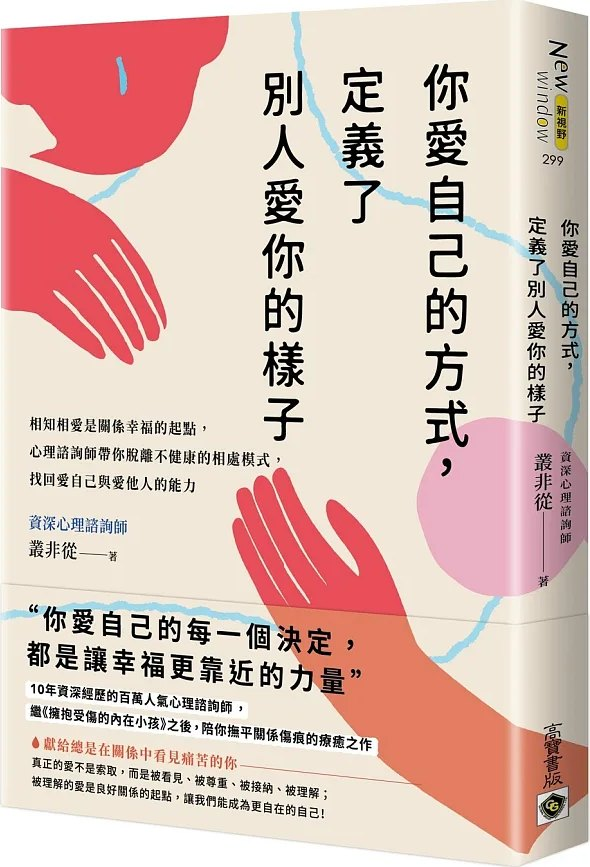
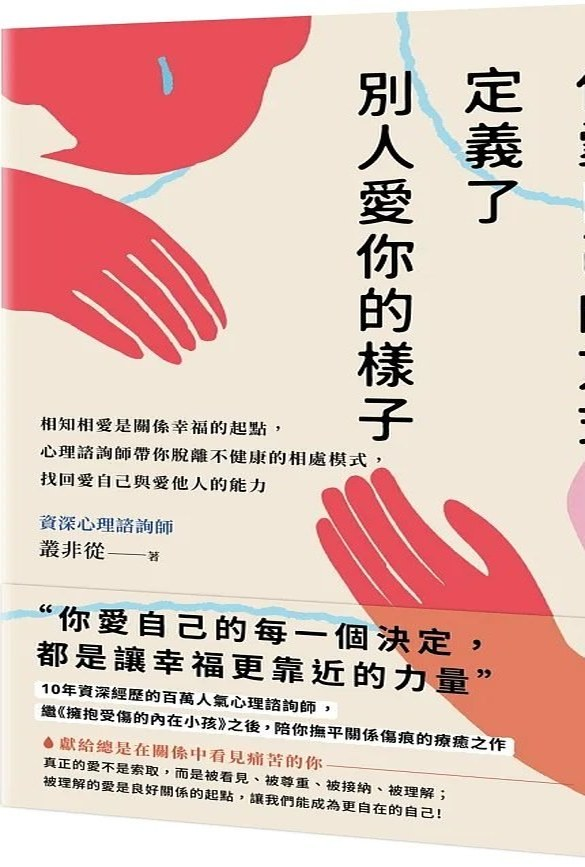
改版：入口頁＋直播／新聞報紙攤／說書書櫃／歌曲點唱機四館，書封裁成正面滿版
Claude-Session: https://claude.ai/code/session_017Gi2asPqHYjFS4PY58urQN

diff --git a/site/index.html b/site/index.html
@@ -239,6 +239,142 @@ footer b{font:italic 600 16px var(--orn);color:var(--gilt)}
 @media(max-width:800px){.hero{grid-template-columns:minmax(0,1fr)}.feat{order:2}}
 @media(max-width:600px){.grid{grid-template-columns:repeat(2,minmax(0,1fr));gap:14px 10px}.card .t{font-size:14px}.hitrow{grid-template-columns:110px minmax(0,1fr)}.shorts{grid-template-columns:repeat(2,minmax(0,1fr))}.set .head{grid-template-columns:96px minmax(0,1fr)}}
 @media(prefers-reduced-motion:reduce){.bar i,.card .th,.short .th{transition:none}}
+/* ===== 全站導覽 ===== */
+.gnav{display:flex;align-items:center;gap:6px 14px;flex-wrap:wrap;width:100%}
+.brand{display:flex;align-items:center;gap:8px;color:var(--pearl,#EEF0F4);text-decoration:none;font-family:"Noto Serif TC",serif;font-weight:900;font-size:17px;white-space:nowrap}
+.brand img{width:30px;height:30px;object-fit:contain;transition:transform .3s}
+.brand:hover img{transform:rotate(-12deg) scale(1.1)}
+.gsecs{display:flex;gap:4px;flex-wrap:wrap}
+.gsec{padding:7px 14px;border-radius:999px;color:#B9BDC8;text-decoration:none;font-weight:700;font-size:15px;border:1px solid transparent}
+.gsec:hover{color:#EEF0F4;border-color:rgba(255,255,255,.15)}
+.gsec[aria-current="true"]{background:#51A8DD;color:#1A1B22}
+body:not([data-sec="live"]) header.band,body:not([data-sec="live"]) .tabs{display:none}
+body[data-sec="home"] .controls{display:none}
+body[data-sec="home"] main.band{padding:0}
+body[data-sec="home"] main.band>.wrap{max-width:none;padding:0}
+body[data-sec="home"] footer.band{margin-top:0}
+.back{display:inline-block;margin:6px 0 14px;color:#51A8DD;text-decoration:none;font-weight:700}
+.back:hover{text-decoration:underline}
+
+/* ===== 入口 ===== */
+.home{position:relative;min-height:100vh;overflow:hidden;display:flex;align-items:center;isolation:isolate}
+.hbg{position:absolute;inset:0;z-index:-2}
+.hbg img{width:100%;height:100%;object-fit:cover;object-position:62% 35%}
+.home::before{content:"";position:absolute;inset:0;z-index:-1;background:linear-gradient(90deg,rgba(18,20,30,.94) 0,rgba(18,20,30,.78) 42%,rgba(18,20,30,.25) 75%,rgba(18,20,30,.1)),linear-gradient(0deg,rgba(18,20,30,.9),transparent 40%)}
+.hin{width:min(1180px,100%);margin:0 auto;padding:72px 28px 60px}
+.home h1{font-family:"Noto Serif TC",serif;font-weight:900;font-size:clamp(38px,6vw,72px);line-height:1.12;margin:6px 0 10px;color:#EEF0F4;text-shadow:0 4px 30px rgba(0,0,0,.5)}
+.hlede{font-size:clamp(17px,2vw,21px);color:#F6E3B4;margin:0 0 26px;font-weight:500}
+.hsearch{display:flex;max-width:560px;background:rgba(255,255,255,.96);border-radius:999px;padding:6px;box-shadow:0 10px 40px -10px rgba(0,0,0,.6),0 0 0 4px rgba(242,201,120,.35);margin-bottom:42px}
+.hsearch input{flex:1;border:0;background:none;font:inherit;font-size:17px;padding:10px 18px;color:#1A1B22;outline:none;min-width:0}
+.hsearch button{border:0;border-radius:999px;background:#E9B872;color:#3B2A12;font:inherit;font-weight:900;padding:10px 22px;cursor:pointer}
+.hsearch button:hover{background:#F2C77F}
+.doors{display:grid;grid-template-columns:repeat(4,minmax(0,1fr));gap:22px;max-width:1040px}
+.door{position:relative;display:flex;flex-direction:column;align-items:flex-start;gap:2px;padding:96px 20px 20px;border-radius:30px;text-decoration:none;color:#3B2A12;background:#FFF3D6;border:3px solid #B8763A;box-shadow:0 8px 0 #B8763A,0 18px 40px -12px rgba(0,0,0,.6);transition:transform .25s cubic-bezier(.3,1.6,.5,1),box-shadow .25s;overflow:visible}
+.door::after{content:"";position:absolute;left:18px;right:18px;top:12px;height:6px;border-radius:9px;background:var(--c);opacity:.85}
+.door:hover,.door:focus-visible{transform:translateY(-8px) rotate(-1.5deg);box-shadow:0 14px 0 #B8763A,0 26px 50px -12px rgba(0,0,0,.6);outline:none}
+.door:nth-child(even):hover{transform:translateY(-8px) rotate(1.5deg)}
+.dhani{position:absolute;z-index:2;top:-38px;left:50%;width:118px;height:118px;object-fit:contain;transform:translateX(-50%);filter:drop-shadow(0 8px 10px rgba(0,0,0,.35));animation:bob 3.2s ease-in-out infinite;animation-delay:calc(var(--i)*-.8s)}
+.door:hover .dhani{animation-duration:.9s}
+@keyframes bob{0%,100%{transform:translate(-50%,0) rotate(-3deg)}50%{transform:translate(-50%,-10px) rotate(3deg)}}
+.drip{position:absolute;left:0;right:0;top:-3px;height:26px;pointer-events:none;background:radial-gradient(14px 18px at 14% 0,#E9B872 98%,transparent) ,radial-gradient(10px 22px at 38% 0,#E9B872 98%,transparent),radial-gradient(12px 14px at 66% 0,#E9B872 98%,transparent),radial-gradient(9px 20px at 86% 0,#E9B872 98%,transparent);opacity:.9;border-radius:30px 30px 0 0}
+.dt{font-family:"Noto Serif TC",serif;font-weight:900;font-size:30px;line-height:1.2}
+.den{font-family:"Cormorant Garamond",serif;font-style:italic;font-weight:600;font-size:17px;color:#8A5A24}
+.dd{font-size:14px;line-height:1.55;margin-top:8px;color:#5B4426}
+.dn{margin-top:12px;font-size:13px;font-weight:900;background:#3B2A12;color:#FFF3D6;padding:4px 12px;border-radius:999px}
+.float{position:absolute;width:86px;opacity:.9;pointer-events:none;filter:drop-shadow(0 6px 8px rgba(0,0,0,.35));animation:drift 9s ease-in-out infinite}
+.f1{right:5%;top:12%;width:92px}.f2{right:30%;bottom:6%;width:74px;animation-delay:-3s}.f3{left:52%;top:6%;width:140px;animation-delay:-6s}
+@keyframes drift{0%,100%{transform:translateY(0) rotate(-4deg)}50%{transform:translateY(-16px) rotate(4deg)}}
+@media(max-width:900px){.doors{grid-template-columns:repeat(2,minmax(0,1fr));gap:48px 16px}.hin{padding:56px 18px 48px}.f3{display:none}.home::before{background:linear-gradient(0deg,rgba(18,20,30,.95) 0,rgba(18,20,30,.75) 60%,rgba(18,20,30,.45))}}
+@media(max-width:480px){.door{padding:78px 14px 16px;border-radius:24px}.dhani{width:92px;height:92px;top:-30px}.dt{font-size:24px}.dd{display:none}.f1,.f2{display:none}}
+
+/* ===== 報紙攤 ===== */
+.stand{position:relative;margin:4px 0 26px;border-radius:18px;overflow:hidden;background:#232634;border:1px solid rgba(255,255,255,.08)}
+.awning{height:54px;background:repeating-linear-gradient(90deg,#1E2A4F 0 46px,#EEF0F4 46px 92px);position:relative}
+.awning::after{content:"";position:absolute;left:0;right:0;bottom:-14px;height:16px;background:radial-gradient(24px 16px at 23px 0,#1E2A4F 98%,transparent) 0 0/92px 16px repeat-x,radial-gradient(24px 16px at 69px 0,#EEF0F4 98%,transparent) 0 0/92px 16px repeat-x}
+.standhead{display:flex;gap:20px;align-items:center;padding:30px 26px 22px}
+.standhead h2,.libhead h2,.jbside h2{font-family:"Noto Serif TC",serif;font-weight:900;font-size:clamp(26px,3.4vw,38px);margin:2px 0 6px}
+.shani,.lhani{width:96px;height:96px;object-fit:contain;flex:none;animation:drift 6s ease-in-out infinite}
+.papers{position:relative;padding:10px 0 40vh;max-width:920px;margin:0 auto}
+.paper{all:unset;box-sizing:border-box;cursor:pointer;display:flex;flex-direction:column;gap:12px;position:sticky;top:calc(var(--ctrl,72px) + 14px + var(--i)*5px);margin:0 auto 34px;width:100%;min-height:330px;padding:22px 26px 18px;background:#F4EEDF;color:#1F1B16;border-radius:4px;box-shadow:0 1px 0 #d8ceb8,0 24px 50px -18px rgba(0,0,0,.75),0 2px 0 rgba(0,0,0,.08) inset;transform:rotate(var(--r));transition:transform .25s,box-shadow .25s;background-image:linear-gradient(90deg,transparent 49.6%,rgba(0,0,0,.05) 50%,transparent 50.4%),repeating-linear-gradient(0deg,rgba(0,0,0,.015) 0 2px,transparent 2px 4px)}
+.paper:hover,.paper:focus-visible{transform:rotate(0) translateY(-6px);box-shadow:0 30px 60px -18px rgba(0,0,0,.85),0 0 0 3px #E9B872;outline:none}
+.mast{display:flex;flex-direction:column;align-items:center;border-bottom:3px double #1F1B16;padding-bottom:8px}
+.mast b{font-family:"Noto Serif TC",serif;font-weight:900;font-size:clamp(28px,4vw,44px);letter-spacing:.12em;line-height:1.1}
+.mast small{font-family:"Cormorant Garamond",serif;font-style:italic;font-weight:600;font-size:15px;color:#5a5245;margin-top:2px}
+.pbody2{display:grid;grid-template-columns:minmax(0,1.25fr) minmax(0,1fr);gap:20px;align-items:start}
+.pmain{display:flex;flex-direction:column;gap:8px;min-width:0}
+.kick{align-self:flex-start;background:#B3261E;color:#fff;font-weight:900;font-size:13px;padding:2px 10px}
+.headl{font-family:"Noto Serif TC",serif;font-weight:900;font-size:clamp(22px,3vw,32px);line-height:1.3}
+.headl mark{background:#F2D46B;color:inherit}
+.subs{display:flex;flex-direction:column;border-top:1px solid #1F1B16;margin-top:4px}
+.subs i{font-style:normal;font-size:15px;line-height:1.45;padding:6px 0;border-bottom:1px dotted #8f8574;overflow:hidden;text-overflow:ellipsis;white-space:nowrap}
+.subs i::before{content:"■ ";font-size:10px;color:#B3261E}
+.pphoto{display:block;aspect-ratio:16/9;overflow:hidden;border:1px solid #1F1B16;background:#ccc}
+.pphoto .th{width:100%;height:100%;object-fit:cover;filter:grayscale(.85) contrast(1.1) sepia(.25)}
+.paper:hover .pphoto .th{filter:none}
+.pfoot{display:flex;justify-content:space-between;gap:10px;font-size:13px;color:#5a5245;border-top:1px solid #1F1B16;padding-top:8px;margin-top:auto}
+.pcta{font-weight:900;color:#1F1B16}
+@media(max-width:700px){.pbody2{grid-template-columns:1fr}.pphoto{order:-1}.paper{padding:16px 16px 14px;min-height:0}.standhead{padding:24px 16px 18px}.shani,.lhani{width:70px;height:70px}}
+
+/* ===== 書櫃間 ===== */
+.libhead{display:flex;gap:20px;align-items:center;margin:6px 0 26px}
+.cabinets{display:grid;grid-template-columns:repeat(auto-fill,minmax(250px,1fr));gap:58px 28px;padding-top:30px}
+.cab{position:relative;display:flex;flex-direction:column;text-decoration:none;color:#3B2A12;border-radius:20px 20px 12px 12px;background:linear-gradient(180deg,#B57A45,#8E5A2E);padding:14px 14px 0;box-shadow:0 10px 0 #5E3A1C,0 26px 40px -16px rgba(0,0,0,.8);transition:transform .25s cubic-bezier(.3,1.6,.5,1)}
+.cab:hover,.cab:focus-visible{transform:translateY(-8px) rotate(-1deg);outline:none}
+.cabtop{position:absolute;top:-54px;right:18px;width:80px;height:80px}
+.cabtop img{width:100%;height:100%;object-fit:contain;filter:drop-shadow(0 6px 6px rgba(0,0,0,.4));animation:drift 5s ease-in-out infinite}
+.cabbody{display:flex;flex-direction:column;gap:12px;background:#4A2E17;border-radius:10px;padding:12px 10px 8px;box-shadow:inset 0 6px 14px rgba(0,0,0,.6)}
+.cabrow{display:flex;align-items:flex-end;gap:5px;height:104px;border-bottom:7px solid #C99863;padding:0 4px}
+.cabrow.low{height:96px}
+.spine{flex:1;max-width:58px;height:var(--h);border-radius:2px;overflow:hidden;box-shadow:2px 0 4px rgba(0,0,0,.6)}
+.spine .bimg,.spine .gcover{width:100%;height:100%;object-fit:cover;object-position:center;display:block}
+.spine .gband,.spine .gstar{display:none}
+.cablabel{display:flex;flex-wrap:wrap;align-items:baseline;gap:4px 10px;background:#FFF3D6;margin:14px -14px 0;padding:14px 18px;border-radius:0 0 12px 12px;border-top:3px solid #5E3A1C}
+.cablabel b{font-family:"Noto Serif TC",serif;font-weight:900;font-size:21px}
+.cablabel small{font-family:"Cormorant Garamond",serif;font-style:italic;font-size:15px;color:#8A5A24}
+.cablabel em{margin-left:auto;font-style:normal;font-weight:900;font-size:13px;background:#3B2A12;color:#FFF3D6;padding:3px 10px;border-radius:999px}
+.woodshelf{background:linear-gradient(180deg,rgba(181,122,69,.12),rgba(181,122,69,.04));border-radius:18px;padding:22px 18px 10px}
+
+/* 書封：一律置中滿版 */
+.bcov .bimg,.mcov .bimg{position:absolute;inset:0;width:100%;height:100%;object-fit:cover;object-position:center center}
+
+/* ===== 點唱機 ===== */
+.jbwrap{display:grid;grid-template-columns:minmax(280px,380px) minmax(0,1fr);gap:40px;align-items:center;margin:10px 0 40px}
+.jukebox{position:relative;border-radius:190px 190px 26px 26px;padding:120px 26px 30px;background:radial-gradient(120% 80% at 50% 0,#3A2C5A,#1E2A4F 60%,#151a2e);border:6px solid #C8A55A;box-shadow:0 0 0 6px #6B4B1F,0 0 50px rgba(242,167,181,.35),0 30px 60px -20px rgba(0,0,0,.9);display:flex;flex-direction:column;align-items:center;gap:14px;text-align:center}
+.jbarch{position:absolute;inset:14px 14px auto;height:150px;border-radius:170px 170px 0 0;border:5px solid transparent;background:linear-gradient(#0000,#0000) padding-box,conic-gradient(from 180deg,#F2A7B5,#E9B872,#51A8DD,#B9A3F2,#F2A7B5) border-box;animation:glow 4s linear infinite;-webkit-mask:linear-gradient(#000 0 0) padding-box exclude,linear-gradient(#000 0 0);mask:linear-gradient(#000 0 0) padding-box exclude,linear-gradient(#000 0 0)}
+.jbhani{position:absolute;top:-64px;left:50%;width:96px;transform:translateX(-50%);animation:bob 2.6s ease-in-out infinite;-webkit-mask:none;mask:none}
+@keyframes glow{to{filter:hue-rotate(360deg)}}
+.jbscreen{position:relative;width:210px;height:210px;margin-top:-30px}
+.jbdisc{position:absolute;top:10px;left:60px;width:190px;height:190px;border-radius:50%;background:radial-gradient(circle,#C8A55A 0 10%,#111 11% 13%,transparent 14%),repeating-radial-gradient(circle,#0f0f13 0 2px,#22232b 2px 4px);box-shadow:0 10px 24px rgba(0,0,0,.6);animation:spin 4s linear infinite}
+@keyframes spin{to{transform:rotate(360deg)}}
+.jbcover{position:absolute;inset:0;border-radius:6px;overflow:hidden;box-shadow:0 14px 30px rgba(0,0,0,.7)}
+.jbcover .sleeve{position:absolute;inset:0}
+.jbinfo{display:flex;flex-direction:column;gap:2px;color:#EEF0F4;margin-top:6px}
+.jbinfo b{font-family:"Noto Serif TC",serif;font-size:24px;line-height:1.3}
+.jbinfo small{color:#B9BDC8;font-size:15px}
+.jblang{font-size:13px;color:#F2A7B5;font-weight:700}
+.jbbtns{display:flex;gap:10px;flex-wrap:wrap;justify-content:center}
+.jbplay,.jbmore{border:0;border-radius:999px;font:inherit;font-weight:900;padding:10px 18px;cursor:pointer}
+.jbplay{background:#F2A7B5;color:#3A1520;box-shadow:0 4px 0 #b06f7d}
+.jbplay:active{transform:translateY(3px);box-shadow:0 1px 0 #b06f7d}
+.jbmore{background:rgba(255,255,255,.1);color:#EEF0F4;border:1px solid rgba(255,255,255,.25)}
+.jbgrill{display:block;width:80%;height:46px;margin-top:6px;border-radius:12px;background:repeating-linear-gradient(90deg,#C8A55A 0 3px,transparent 3px 12px),#2a2140;opacity:.75}
+.jbjump{display:flex;flex-wrap:wrap;gap:8px;margin-top:14px}
+.jbjump a{padding:7px 14px;border-radius:999px;background:#FFF3D6;color:#3B2A12;text-decoration:none;font-weight:900}
+.jbjump a small{color:#8A5A24}
+.stack{margin:10px 0 30px}
+.flow{overflow-x:auto;overflow-y:hidden;scroll-snap-type:x mandatory;perspective:900px;padding:30px 0 50px;scrollbar-width:thin;outline:none}
+.flow:focus-visible{box-shadow:0 0 0 2px #51A8DD;border-radius:12px}
+.flowin{display:flex;align-items:center;padding:0 calc(50% - 85px);transform-style:preserve-3d}
+.cf{all:unset;flex:none;position:relative;width:170px;height:170px;margin:0 -34px;scroll-snap-align:center;cursor:pointer;transform-style:preserve-3d;transition:transform .25s ease-out;-webkit-box-reflect:below 6px linear-gradient(transparent 62%,rgba(255,255,255,.22))}
+.cf .sleeve{position:absolute;inset:0;border-radius:3px;box-shadow:0 12px 26px rgba(0,0,0,.6)}
+.cf.mid .sleeve{box-shadow:0 0 0 3px #F2A7B5,0 18px 36px rgba(0,0,0,.7)}
+.cf .rcount{position:absolute;top:-8px;right:-8px}
+.cfcap{text-align:center;min-height:1.6em;margin:-18px 0 0;color:#EEF0F4}
+.cfcap b{font-family:"Noto Serif TC",serif}
+@media(max-width:900px){.jbwrap{grid-template-columns:1fr;justify-items:center}.jbside{text-align:center}.jbjump{justify-content:center}.jukebox{width:min(360px,100%)}}
+@media(max-width:480px){.cf{width:130px;height:130px;margin:0 -26px}.flowin{padding:0 calc(50% - 65px)}}
+@media(prefers-reduced-motion:reduce){.dhani,.float,.jbdisc,.jbarch,.jbhani,.shani,.lhani,.cabtop img{animation:none}}
+
 </style>
 </head>
 <body>
@@ -262,13 +398,15 @@ footer b{font:italic 600 16px var(--orn);color:var(--gilt)}
 
 <div class="controls">
   <div class="wrap">
+    <nav class="gnav" aria-label="館別">
+      <a class="brand" href="#" aria-label="回到入口"><img src="assets/hani/round.png" alt="">尼貝爾直播紀錄館</a>
+      <span class="gsecs"><a class="gsec" href="#live" data-sec="live">直播</a><a class="gsec" href="#news" data-sec="news">新聞</a><a class="gsec" href="#books" data-sec="books">說書</a><a class="gsec" href="#songs" data-sec="songs">歌曲</a></span>
+    </nav>
     <div class="search"><input id="q" type="text" enterkeyhint="search" placeholder="搜尋標題、時間軸、書名、歌名…" aria-label="搜尋直播紀錄" autocomplete="off"><button id="clr" type="button" aria-label="清除搜尋" hidden>×</button></div>
-    <nav class="tabs" aria-label="檢視">
-      <a class="tab" href="#all" data-v="all">全部</a>
+    <nav class="tabs" aria-label="直播檢視">
+      <a class="tab" href="#live" data-v="all">全部</a>
       <a class="tab" href="#shorts" data-v="shorts">Shorts</a>
-      <a class="tab" href="#shelf" data-v="shelf">書櫃</a>
       <a class="tab" href="#topics" data-v="topics">議題</a>
-      <a class="tab" href="#records" data-v="records">唱片架</a>
     </nav>
   </div>
 </div>
@@ -310,7 +448,7 @@ const tlink=(id,t)=>`href="${yt(id,t)}" target="_blank" rel="noopener" data-play
 const norm=s=>String(s??"").toLowerCase().replace(/[\s・·．.、，,！!？?「」『』《》〈〉（）()【】#＃：:／/\-]/g,"");
 const WD="日一二三四五六";
 const NOISE=/^(OP|ED|開場|晚安|今日曲目回顧|待機|開台待機)/;
-let D,S=[],byId={},SH=[],BOOKS=[],RECS=[],state={v:"all",cat:"",scat:"",q:"",btype:"",rsort:"count",rlang:""};
+let D,S=[],byId={},SH=[],BOOKS=[],RECS=[],state={sec:"home",sub:"",v:"all",cat:"",scat:"",q:"",btype:"",rsort:"count",rlang:""};
 
 function hl(text,q){const t=esc(text);if(!q)return t;const k=esc(q).replace(/[.*+?^${}()|[\]\\]/g,"\\$&");try{return t.replace(new RegExp(k,"gi"),m=>"<mark>"+m+"</mark>")}catch(e){return t}}
 const SIZES={v:["maxresdefault","hq720","sddefault","hqdefault"],s:["oardefault","oar2","hqdefault"]};
@@ -464,7 +602,7 @@ const PHOLD=`<div class="player" id="player"></div>`;
 let RM=matchMedia("(prefers-reduced-motion: reduce)").matches;
 if(window.gsap){gsap.matchMedia().add("(prefers-reduced-motion: reduce)",()=>{RM=true;return()=>{RM=false}})}
 const G=()=>window.gsap&&!RM;
-function animView(){if(!G())return;const items=[...document.querySelectorAll("#view .bk,#view .rec")].slice(0,48);if(!items.length)return;
+function animView(){if(!G())return;const items=[...document.querySelectorAll("#view .bk,#view .rec,#view .door,#view .cab")].slice(0,48);if(!items.length)return;
   gsap.from(items,{y:26,autoAlpha:0,rotationX:-14,transformPerspective:700,transformOrigin:"50% 100%",duration:.6,ease:"power3.out",stagger:{each:.022},clearProps:"transform,opacity,visibility"})}
 function animSheet(kind){if(!window.gsap)return;gsap.killTweensOf(".mvinyl");if(RM)return;
   const rows=panel.querySelectorAll(".pbody .ep");
@@ -534,9 +672,18 @@ function viewSongs(){
   return h}
 
 function render(){
-  document.querySelectorAll(".tab").forEach(t=>t.setAttribute("aria-current",String(t.dataset.v===state.v)));
-  document.getElementById("view").innerHTML=({all:viewAll,shorts:viewShorts,shelf:viewShelf,topics:viewTopics,records:viewRecords}[state.v])();
-  renderBars();buildRail();animView();
+  document.querySelectorAll(".tab").forEach(t=>t.setAttribute("aria-current",String(state.sec==="live"&&t.dataset.v===state.v)));
+  document.querySelectorAll(".gsec").forEach(a=>a.setAttribute("aria-current",String(a.dataset.sec===state.sec)));
+  let html;
+  if(state.sec==="home")html=viewHome();
+  else if(state.sec==="news")html=viewNews();
+  else if(state.sec==="books")html=state.sub?viewBookCat(state.sub):viewCabinets();
+  else if(state.sec==="songs")html=viewJukebox();
+  else html=({all:viewAll,shorts:viewShorts,topics:viewTopics}[state.v]||viewAll)();
+  document.getElementById("view").innerHTML=html;
+  if(state.sec==="live")renderBars();
+  buildRail();if(state.sec==="songs")initFlows();animView();
+  document.documentElement.style.setProperty("--ctrl",(document.querySelector(".controls").offsetHeight||0)+"px");
 }
 
 /* 右側年月滑桿 */
@@ -614,7 +761,15 @@ function closeSheet(){stopPlayer();sheet.classList.remove("open");document.body.
 sheet.addEventListener("click",e=>{if(e.target===sheet||e.target.closest("#close"))closeSheet()});
 document.addEventListener("keydown",e=>{if(e.key==="Escape"&&sheet.classList.contains("open"))closeSheet()});
 
-function route(){let h=location.hash.slice(1);h={books:"shelf",songs:"records"}[h]||h;state.v=["shelf","topics","records","shorts"].includes(h)?h:"all";render()}
+function route(){const h=decodeURIComponent(location.hash.slice(1));let [sec,sub]=h.split("/");sec={shelf:"books",records:"songs",all:"live",book:"books"}[sec]||sec;
+  const prev=state.sec+"/"+(state.sub||"")+"/"+state.v;
+  if(sec==="shorts"||sec==="topics"){state.sec="live";state.v=sec}
+  else if(sec==="live"){state.sec="live";state.v="all"}
+  else if(["news","books","songs"].includes(sec)){state.sec=sec;state.sub=sub||""}
+  else state.sec="home";
+  if(prev.split("/")[0]!==state.sec&&!window.__keepQ){state.q="";qi.value="";clr.hidden=true}window.__keepQ=false;
+  document.body.dataset.sec=state.sec;document.title=(({live:"直播",news:"新聞報紙攤",books:"說書書櫃",songs:"歌曲點唱機"})[state.sec]?({live:"直播",news:"新聞報紙攤",books:"說書書櫃",songs:"歌曲點唱機"})[state.sec]+"｜":"")+"尼貝爾直播紀錄館";
+  render();if(prev!==state.sec+"/"+(state.sub||"")+"/"+state.v)scrollTo(0,0)}
 document.getElementById("view").addEventListener("click",e=>{
   const sa=e.target.closest(".setall");if(sa){state.openSets=!state.openSets;document.querySelectorAll(".setl").forEach(d=>d.open=state.openSets);sa.setAttribute("aria-pressed",state.openSets);sa.textContent=state.openSets?"收起全部歌單":"♪ 一鍵展開全部歌單";return}
   const c=e.target.closest(".chip");if(c){for(const k of ["cat","scat","btype","rsort","rlang"])if(k in c.dataset)state[k]=c.dataset[k];render();return}
@@ -625,7 +780,7 @@ panel.addEventListener("click",e=>{const o=e.target.closest("[data-open]");if(o)
 document.getElementById("feat").addEventListener("click",e=>openSheet(e.currentTarget.dataset.id));
 document.getElementById("bars").addEventListener("click",e=>{
   const b=e.target.closest(".bar");if(!b)return;
-  if(state.v!=="all"){history.replaceState(null,"","#all");state.v="all"}
+  if(state.v!=="all"){history.replaceState(null,"","#live");state.v="all"}
   if(!document.getElementById("m-"+b.dataset.m)){state.cat="";state.q="";qi.value="";clr.hidden=true}
   render();
   document.getElementById("m-"+b.dataset.m)?.scrollIntoView({behavior:matchMedia("(prefers-reduced-motion:reduce)").matches?"auto":"smooth"})});
@@ -633,6 +788,130 @@ const qi=document.getElementById("q"),clr=document.getElementById("clr");let tm;
 qi.addEventListener("input",()=>{clr.hidden=!qi.value;clearTimeout(tm);tm=setTimeout(()=>{state.q=qi.value.trim();render()},180)});
 clr.addEventListener("click",()=>{qi.value="";clr.hidden=true;state.q="";render();qi.focus()});
 window.addEventListener("hashchange",route);
+
+/* ===== 入口與四個館：直播、新聞、說書、歌曲 ===== */
+const HANI=n=>`assets/hani/${n}.png`;
+const SECS=[
+  {k:"live",t:"直播",en:"Live Archive",d:"所有直播、Podcast、Shorts 與時間軸",h:"round",c:"#51A8DD"},
+  {k:"news",t:"新聞",en:"News Stand",d:"《新聞久一點》每週專題報紙攤",h:"cube",c:"#E9B872"},
+  {k:"books",t:"說書",en:"Book Cabinet",d:"讀過的書，按類型放進書櫃",h:"lollipop",c:"#C8A55A"},
+  {k:"songs",t:"歌曲",en:"Jukebox",d:"點唱機＋依語種分類的唱片",h:"icecream",c:"#F2A7B5"}];
+const BOOK_CATS=[
+  ["mind","心理・療癒","Mind & Healing","round-soft",["我的痛苦有名字嗎","戀愛腦依戀障礙","你愛自己的方式","失控的焦慮世代","高功能倖存者","我想了解身心科","醫生說我可以去死沒關係","今天，我想休息一下","長女病","不是妳想太多","母親像月亮一樣","家鎖","為了這個家","每一個告別都珍貴","再玩個一關就好了"]],
+  ["grow","自我成長・溝通","Growth & Talk","swirl",["隨他們去","人生只有兩件事","你的人生，他們六個說了算","擁抱人生10大無解","別再騙自己","世界盡頭的咖啡館","說話太","頭腦好的人說話前思考的事","雑談力","雜談力","謝罪的藝術","我想把這個世界讀給你聽","你該管理的是能量","高效偷懶","費曼學習法","如何閱讀一本書"]],
+  ["think","商業・思考","Business & Logic","cube",["底層邏輯","反脆弱","邏輯思考題","經濟學關鍵字","小狗錢錢","為什麼我們這樣生活"]],
+  ["phil","哲學・社會","Philosophy & Society","square-soft",["移動的批判","正是時候讀康德","共識的終結","旁觀他人的痛苦","死亡否認","好人怎麼會幹壞事","謠言心理學","Vtuber"]],
+  ["japan","日本・生活文化","Japan & Everyday","dango",["日本美學","昭和感性","日本在地零食手帖","東京，謝謝款待","台北早餐大王","日本中學道德教科書","東京防災","BLPT","悠木碧","獨斷與偏見"]],
+  ["sci","醫學・科學","Medicine & Science","drip",["控糖","Rewire","法醫"]]];
+const bookCat=b=>(BOOK_CATS.find(c=>c[4].some(w=>b.title.includes(w)))||["other"])[0];
+const BCN=Object.fromEntries(BOOK_CATS.map(c=>[c[0],c]));
+const LANG_ORDER=["中文","台語","日文","韓文","英文","粵語","其他"];
+
+function goSec(h){if(location.hash==="#"+h)route();else location.hash=h}
+function viewHome(){
+  const nNews=S.filter(r=>/新聞久一點/.test(r.raw||r.title)).length;
+  const cnt={live:`${S.filter(r=>r.live).length} 場直播`,news:`${nNews} 期報紙`,books:`${BOOKS.length} 本書`,songs:`${RECS.length} 首歌`};
+  return `<section class="home">
+    <div class="hbg" aria-hidden="true"><img src="assets/banner.jpg" alt=""></div>
+    <div class="hin">
+      <p class="eyebrow">Trauma Troupe · Stream Archive</p>
+      <h1>尼貝爾直播紀錄館</h1>
+      <p class="hlede">哈尼，今天想從哪一扇門進去逛逛？</p>
+      <form class="hsearch" id="hsf" role="search"><input id="hq" type="search" enterkeyhint="search" placeholder="搜尋直播、時間軸、書名、歌名…" aria-label="搜尋直播紀錄" autocomplete="off"><button type="submit" aria-label="搜尋">搜尋</button></form>
+      <div class="doors">${SECS.map((s,i)=>`<a class="door" href="#${s.k}" style="--c:${s.c};--i:${i}">
+        <span class="drip" aria-hidden="true"></span>
+        <img class="dhani" src="${HANI(s.h)}" alt="" loading="eager">
+        <span class="dt">${s.t}</span><span class="den">${s.en}</span><span class="dd">${s.d}</span><span class="dn">${cnt[s.k]}</span></a>`).join("")}</div>
+    </div>
+    <img class="float f1" src="${HANI("round-soft")}" alt="" aria-hidden="true"><img class="float f2" src="${HANI("swirl")}" alt="" aria-hidden="true"><img class="float f3" src="${HANI("melt")}" alt="" aria-hidden="true">
+  </section>`}
+
+/* ---------- 新聞：報紙攤 ---------- */
+function newsInfo(r){
+  const t=(r.raw||r.title).replace(/^(【[^】]*】\s*)+/,"").replace(/當尼專屬.*$|國內國際大小事.*$/,"").trim();
+  const dm=t.match(/(\d{2})\.?(\d{2})\s*[-–~]\s*(\d{2})\.?(\d{2})/);
+  let head=t.replace(/(\d{2})\.?(\d{2})\s*[-–~]\s*(\d{2})\.?(\d{2})/,"").replace(/[！!\s]+$/,"").trim();
+  let subs=[];
+  if(head.includes("/")){const p=head.split("/").map(x=>x.trim()).filter(Boolean);const i=Math.max(0,p.findIndex(x=>/專題/.test(x)));head=p[i];subs=p.filter((_,j)=>j!==i)}
+  if(/^早安尼好/.test(head))head="";
+  const ch=(r.chapters||[]).map(c=>c.x.replace(/^[\d:\s]+/,"").trim()).filter(x=>x&&!NOISE.test(x)&&!/^(開場|結尾|晚安|下播|片尾|片頭|雜談|閒聊)/.test(x));
+  if(!head)head=ch[0]||"本週國內國際大小事";
+  return {head:head.replace(/專題$/,"專題"),subs:[...subs,...ch.filter(x=>x!==head)].slice(0,6),range:dm?`${dm[1]}.${dm[2]} – ${dm[3]}.${dm[4]}`:r.date.slice(5).replace("-","."),hasTopic:/專題/.test(t)}}
+function viewNews(){
+  const q=qn();const list=S.filter(r=>/新聞久一點/.test(r.raw||r.title)).filter(r=>!q||r.hay.includes(q));
+  const total=list.length;
+  return `<div class="stand"><div class="awning" aria-hidden="true"></div>
+    <div class="standhead"><img class="shani" src="${HANI("cube")}" alt=""><div><p class="eyebrow">News Stand · 新聞久一點</p><h2>尼貝爾報紙攤</h2><p class="sub">每週一 20:00 的新聞直播，一期一份報紙。往下滑翻報紙，點一份就能看整場時間軸</p></div></div></div>
+    ${total?`<div class="papers">${list.map((r,i)=>{const n=newsInfo(r);return `<button class="paper" data-id="${esc(r.id)}" style="--i:${i%7};--r:${((hash(r.id)%7)-3)*.45}deg" aria-label="${esc(n.range)} ${esc(n.head)}">
+      <span class="mast"><b>新聞久一點</b><small>Weekly News Digest ・ 第 ${total-i} 期 ・ ${esc(n.range)}</small></span>
+      <span class="pbody2"><span class="pmain"><span class="kick">${n.hasTopic?"本週專題":"頭條"}</span><span class="headl">${hl(n.head,state.q)}</span>
+      ${n.subs.length?`<span class="subs">${n.subs.map(s=>`<i>${esc(s)}</i>`).join("")}</span>`:""}</span>
+      <span class="pphoto">${th("v",r.id)}</span></span>
+      <span class="pfoot"><span>${esc(r.date.replaceAll("-","."))}（${WD[new Date(r.date+"T12:00:00").getDay()]}）・${esc(r.dur)}</span><span class="pcta">翻開時間軸 →</span></span></button>`}).join("")}</div>`:`<p class="empty">報紙攤沒有符合的報紙</p>`}`}
+
+/* ---------- 說書：書櫃 ---------- */
+function viewCabinets(){
+  const q=qn();const base=BOOKS.filter(b=>!q||b.hay.includes(q));
+  const groups=BOOK_CATS.map(c=>[c,base.filter(b=>bookCat(b)===c[0])]).filter(g=>g[1].length);
+  const other=base.filter(b=>bookCat(b)==="other");
+  return `<div class="libhead"><img class="lhani" src="${HANI("lollipop")}" alt=""><div><p class="eyebrow">Book Cabinet · 說書</p><h2>尼貝爾的書櫃間</h2><p class="sub">說書直播和 Podcast 讀過的 ${base.length} 本書，按類型收進不同的櫃子。先挑一個櫃子吧</p></div></div>
+   <div class="cabinets">${groups.map(([c,l],i)=>`<a class="cab" href="#books/${c[0]}" style="--i:${i}">
+     <span class="cabtop"><img src="${HANI(c[3])}" alt=""></span>
+     <span class="cabbody"><span class="cabrow">${l.slice(0,5).map(b=>`<span class="spine" style="--h:${86+hash(b.k)%14}%">${bookCover(b)}</span>`).join("")}</span><span class="cabrow low">${l.slice(5,10).map(b=>`<span class="spine" style="--h:${86+hash(b.k)%14}%">${bookCover(b)}</span>`).join("")}</span></span>
+     <span class="cablabel"><b>${c[1]}</b><small>${c[2]}</small><em>${l.length} 本</em></span></a>`).join("")}</div>
+   ${other.length?viewShelfList(other,"其他"):""}`}
+function viewShelfList(list,title){
+  return `<div class="shelf">${list.map(b=>`<button class="bk" data-book="${esc(b.k)}" aria-label="《${esc(b.title)}》${b.author?esc(b.author):""}，${b.eps.length} 集"><span class="bcov">${bookCover(b)}</span><span class="bt">${hl(b.title,state.q)}</span><span class="bm">${b.eps.length>1?`${b.eps.length} 集・`:""}${b.live&&b.pod?"直播＋Podcast":b.live?"說書直播":"Podcast"}</span></button>`).join("")}</div>`}
+function viewBookCat(cat){
+  const c=BCN[cat];if(!c)return viewCabinets();
+  const q=qn();const list=BOOKS.filter(b=>bookCat(b)===cat&&(!q||b.hay.includes(q)));
+  return `<a class="back" href="#books">← 回到書櫃間</a><div class="libhead"><img class="lhani" src="${HANI(c[3])}" alt=""><div><p class="eyebrow">${esc(c[2])}</p><h2>${esc(c[1])}</h2><p class="sub">${list.length} 本書，抽一本出來看看</p></div></div>
+   <div class="woodshelf">${list.length?viewShelfList(list):`<p class="empty">這個櫃子裡沒有符合的書</p>`}</div>`}
+
+/* ---------- 歌曲：點唱機＋Cover Flow ---------- */
+let juke=null;
+function viewJukebox(){
+  const q=qn();const base=RECS.filter(x=>!q||x.hay.includes(q));
+  if(!juke||!base.includes(juke))juke=[...base].sort((a,b)=>b.n-a.n||b.last.localeCompare(a.last))[0]||null;
+  const stacks=LANG_ORDER.map(l=>[l,base.filter(x=>x.langs.includes(l)).sort((a,b)=>b.n-a.n||b.last.localeCompare(a.last))]).filter(s=>s[1].length);
+  return `<div class="jbwrap">
+    <div class="jukebox" id="jukebox" aria-live="polite">${jukeInner()}</div>
+    <div class="jbside"><p class="eyebrow">Jukebox · 歌曲</p><h2>尼貝爾點唱機</h2><p class="sub">${base.length} 首歌、唱過 ${base.reduce((a,x)=>a+x.n,0)} 次。往下滑動唱片架，點中間那張就會放進點唱機</p>
+      <div class="jbjump">${stacks.map(([l,a])=>`<a href="#flow-${esc(l)}" data-flowjump="${esc(l)}">${esc(l)} <small>${a.length}</small></a>`).join("")}</div></div></div>
+    ${stacks.map(([l,a])=>`<section class="stack" id="flow-${esc(l)}"><h3 class="sect">${esc(l)} <span>${a.length} 張</span></h3>
+      <div class="flow" tabindex="0" aria-label="${esc(l)}唱片，左右鍵切換"><div class="flowin">${a.map(x=>`<button class="cf" data-cf="${esc(x.k)}" aria-label="${esc(x.title)}${x.artist?"／"+esc(x.artist):""}">${sleeve(x)}${x.n>1?`<span class="rcount">×${x.n}</span>`:""}</button>`).join("")}</div></div>
+      <p class="cfcap" aria-hidden="true"></p></section>`).join("")}
+    ${base.length?"":`<p class="empty">唱片架上還沒有這首歌</p>`}`}
+function jukeInner(){const x=juke;if(!x)return `<div class="jbscreen"><p class="note">沒有符合的歌</p></div>`;
+  return `<span class="jbarch" aria-hidden="true"><img class="jbhani" src="${HANI("round")}" alt=""></span>
+   <div class="jbscreen"><span class="jbdisc" aria-hidden="true"></span><span class="jbcover">${sleeve(x)}</span></div>
+   <div class="jbinfo"><span class="jblang">${esc(x.lang)}・唱過 ${x.n} 次</span><b>${esc(x.title)}</b>${x.artist?`<small>${esc(x.artist)}</small>`:""}</div>
+   <div class="jbbtns"><button class="jbplay" data-jplay="${esc(x.k)}">▶ 播放最近一次</button><button class="jbmore" data-rec="${esc(x.k)}">全部 ${x.n} 次演唱</button></div>
+   <span class="jbgrill" aria-hidden="true"></span>`}
+function setJuke(k){const x=RECS.find(y=>y.k===k);if(!x)return;juke=x;const jb=document.getElementById("jukebox");if(!jb)return;jb.innerHTML=jukeInner();
+  if(G())gsap.fromTo(jb.querySelector(".jbcover"),{y:-40,autoAlpha:0,rotation:-6},{y:0,autoAlpha:1,rotation:0,duration:.6,ease:"back.out(1.6)"});
+  if(innerWidth<900)jb.scrollIntoView({behavior:"smooth",block:"center"})}
+function initFlows(){
+  document.querySelectorAll(".flow").forEach(f=>{
+    const upd=()=>{const r=f.getBoundingClientRect(),cx=r.left+r.width/2;let best=null,bd=1e9;
+      f.querySelectorAll(".cf").forEach(el=>{const b=el.getBoundingClientRect(),d=(b.left+b.width/2-cx)/b.width;const ad=Math.abs(d);
+        if(ad<bd){bd=ad;best=el}
+        const c=Math.max(-1,Math.min(1,d));
+        el.style.transform=ad<.5?`perspective(700px) translateZ(${(1-ad*2)*110}px) rotateY(${-d*110}deg)`:`perspective(700px) translateX(${c<0?30:-30}px) rotateY(${c<0?58:-58}deg) scale(.92)`;
+        el.style.zIndex=String(1000-Math.round(ad*10));el.classList.toggle("mid",false)});
+      if(best){best.classList.add("mid");const x=RECS.find(y=>y.k===best.dataset.cf);const cap=f.parentElement.querySelector(".cfcap");if(cap&&x)cap.innerHTML=`<b>${esc(x.title)}</b>${x.artist?`　${esc(x.artist)}`:""}`}};
+    let raf=0;f.addEventListener("scroll",()=>{if(!raf)raf=requestAnimationFrame(()=>{raf=0;upd()})},{passive:true});
+    f.addEventListener("keydown",e=>{if(e.key!=="ArrowRight"&&e.key!=="ArrowLeft"&&e.key!=="Enter")return;e.preventDefault();const m=f.querySelector(".cf.mid");if(!m)return;
+      if(e.key==="Enter"){setJuke(m.dataset.cf);return}
+      const n=e.key==="ArrowRight"?m.nextElementSibling:m.previousElementSibling;if(n)n.scrollIntoView({inline:"center",block:"nearest",behavior:"smooth"})});
+    upd();});
+}
+document.getElementById("view").addEventListener("click",e=>{
+  const cf=e.target.closest(".cf");if(cf){e.stopPropagation();if(cf.classList.contains("mid"))setJuke(cf.dataset.cf);else cf.scrollIntoView({inline:"center",block:"nearest",behavior:"smooth"});return}
+  const jp=e.target.closest("[data-jplay]");if(jp){e.stopPropagation();const x=RECS.find(y=>y.k===jp.dataset.jplay);if(x){openRecord(x.k);play(x.perf[0].r.id,secs(x.perf[0].t))}return}
+  const fj=e.target.closest("[data-flowjump]");if(fj){e.preventDefault();document.getElementById("flow-"+fj.dataset.flowjump)?.scrollIntoView({behavior:"smooth",block:"start"});return}
+},true);
+document.getElementById("view").addEventListener("submit",e=>{if(e.target.id!=="hsf")return;e.preventDefault();const v=document.getElementById("hq").value.trim();qi.value=v;clr.hidden=!v;state.q=v;window.__keepQ=true;goSec("live")});
 
 fetch("data.json",{cache:"no-cache"}).then(r=>r.json()).then(d=>{D=d;prep();buildLibrary();applyDriveCovers();renderStats();route()}).catch(()=>{document.getElementById("view").innerHTML='<p class="empty">資料載入失敗，請重新整理一次</p>'});
 }
